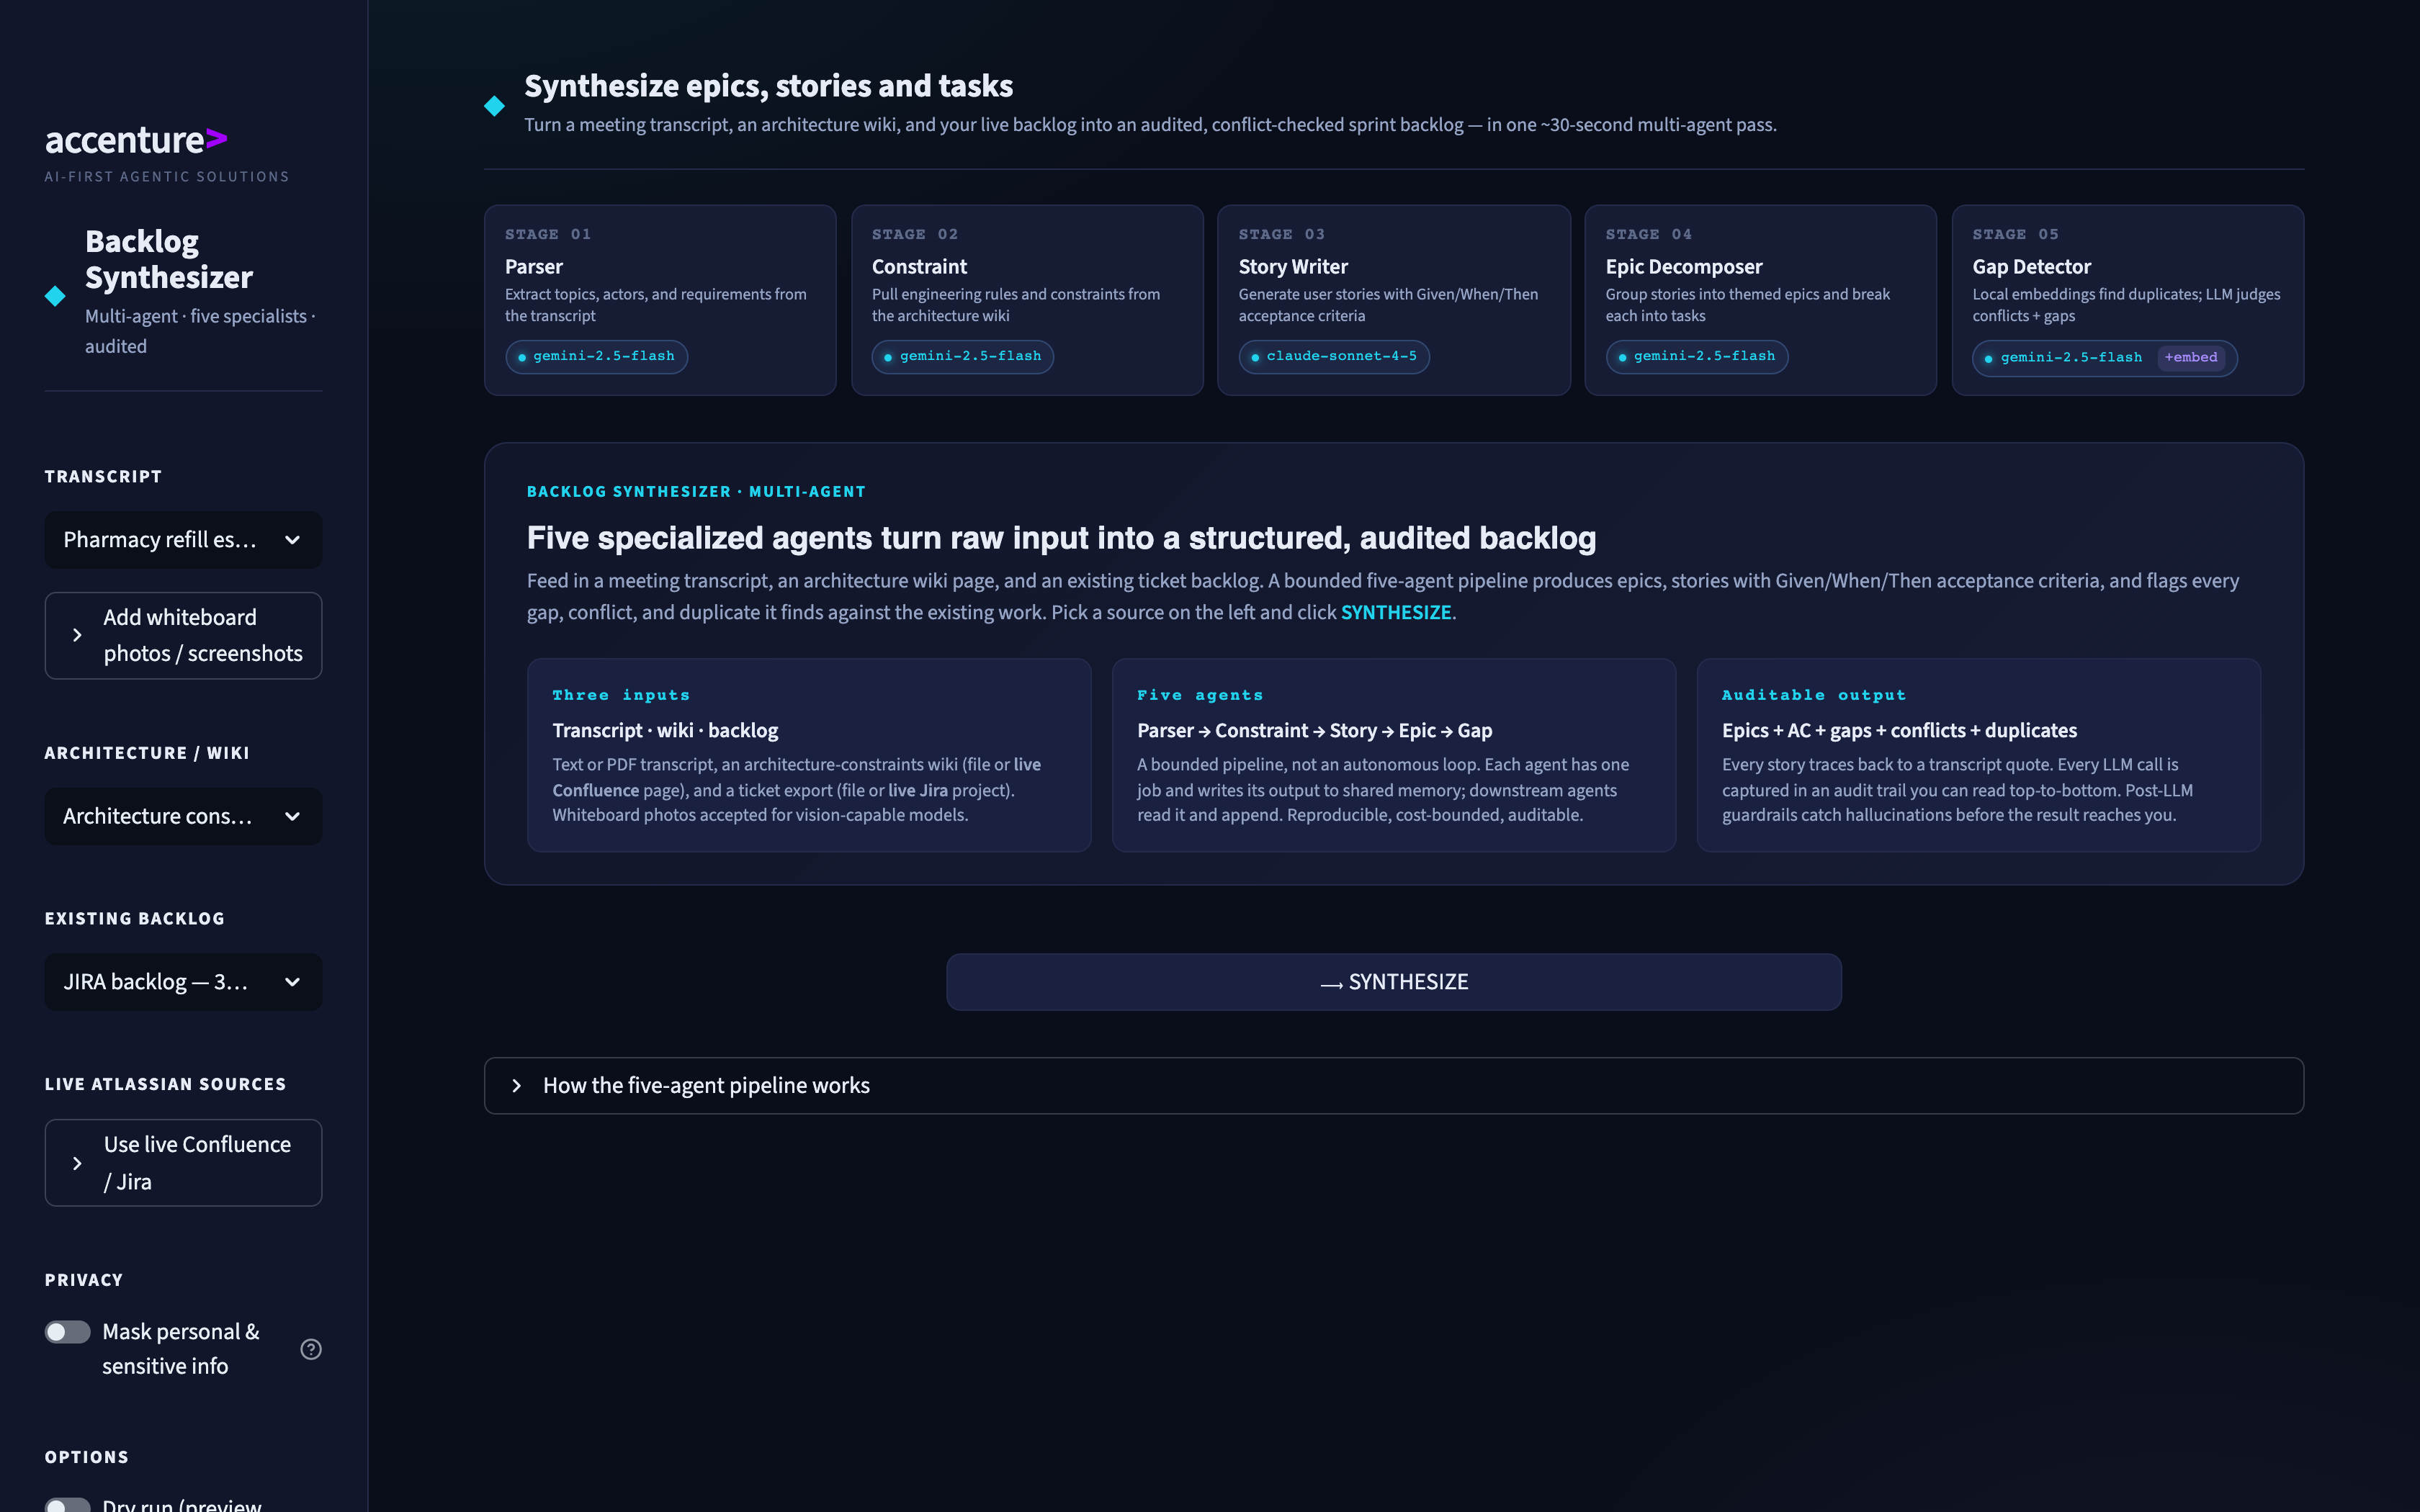
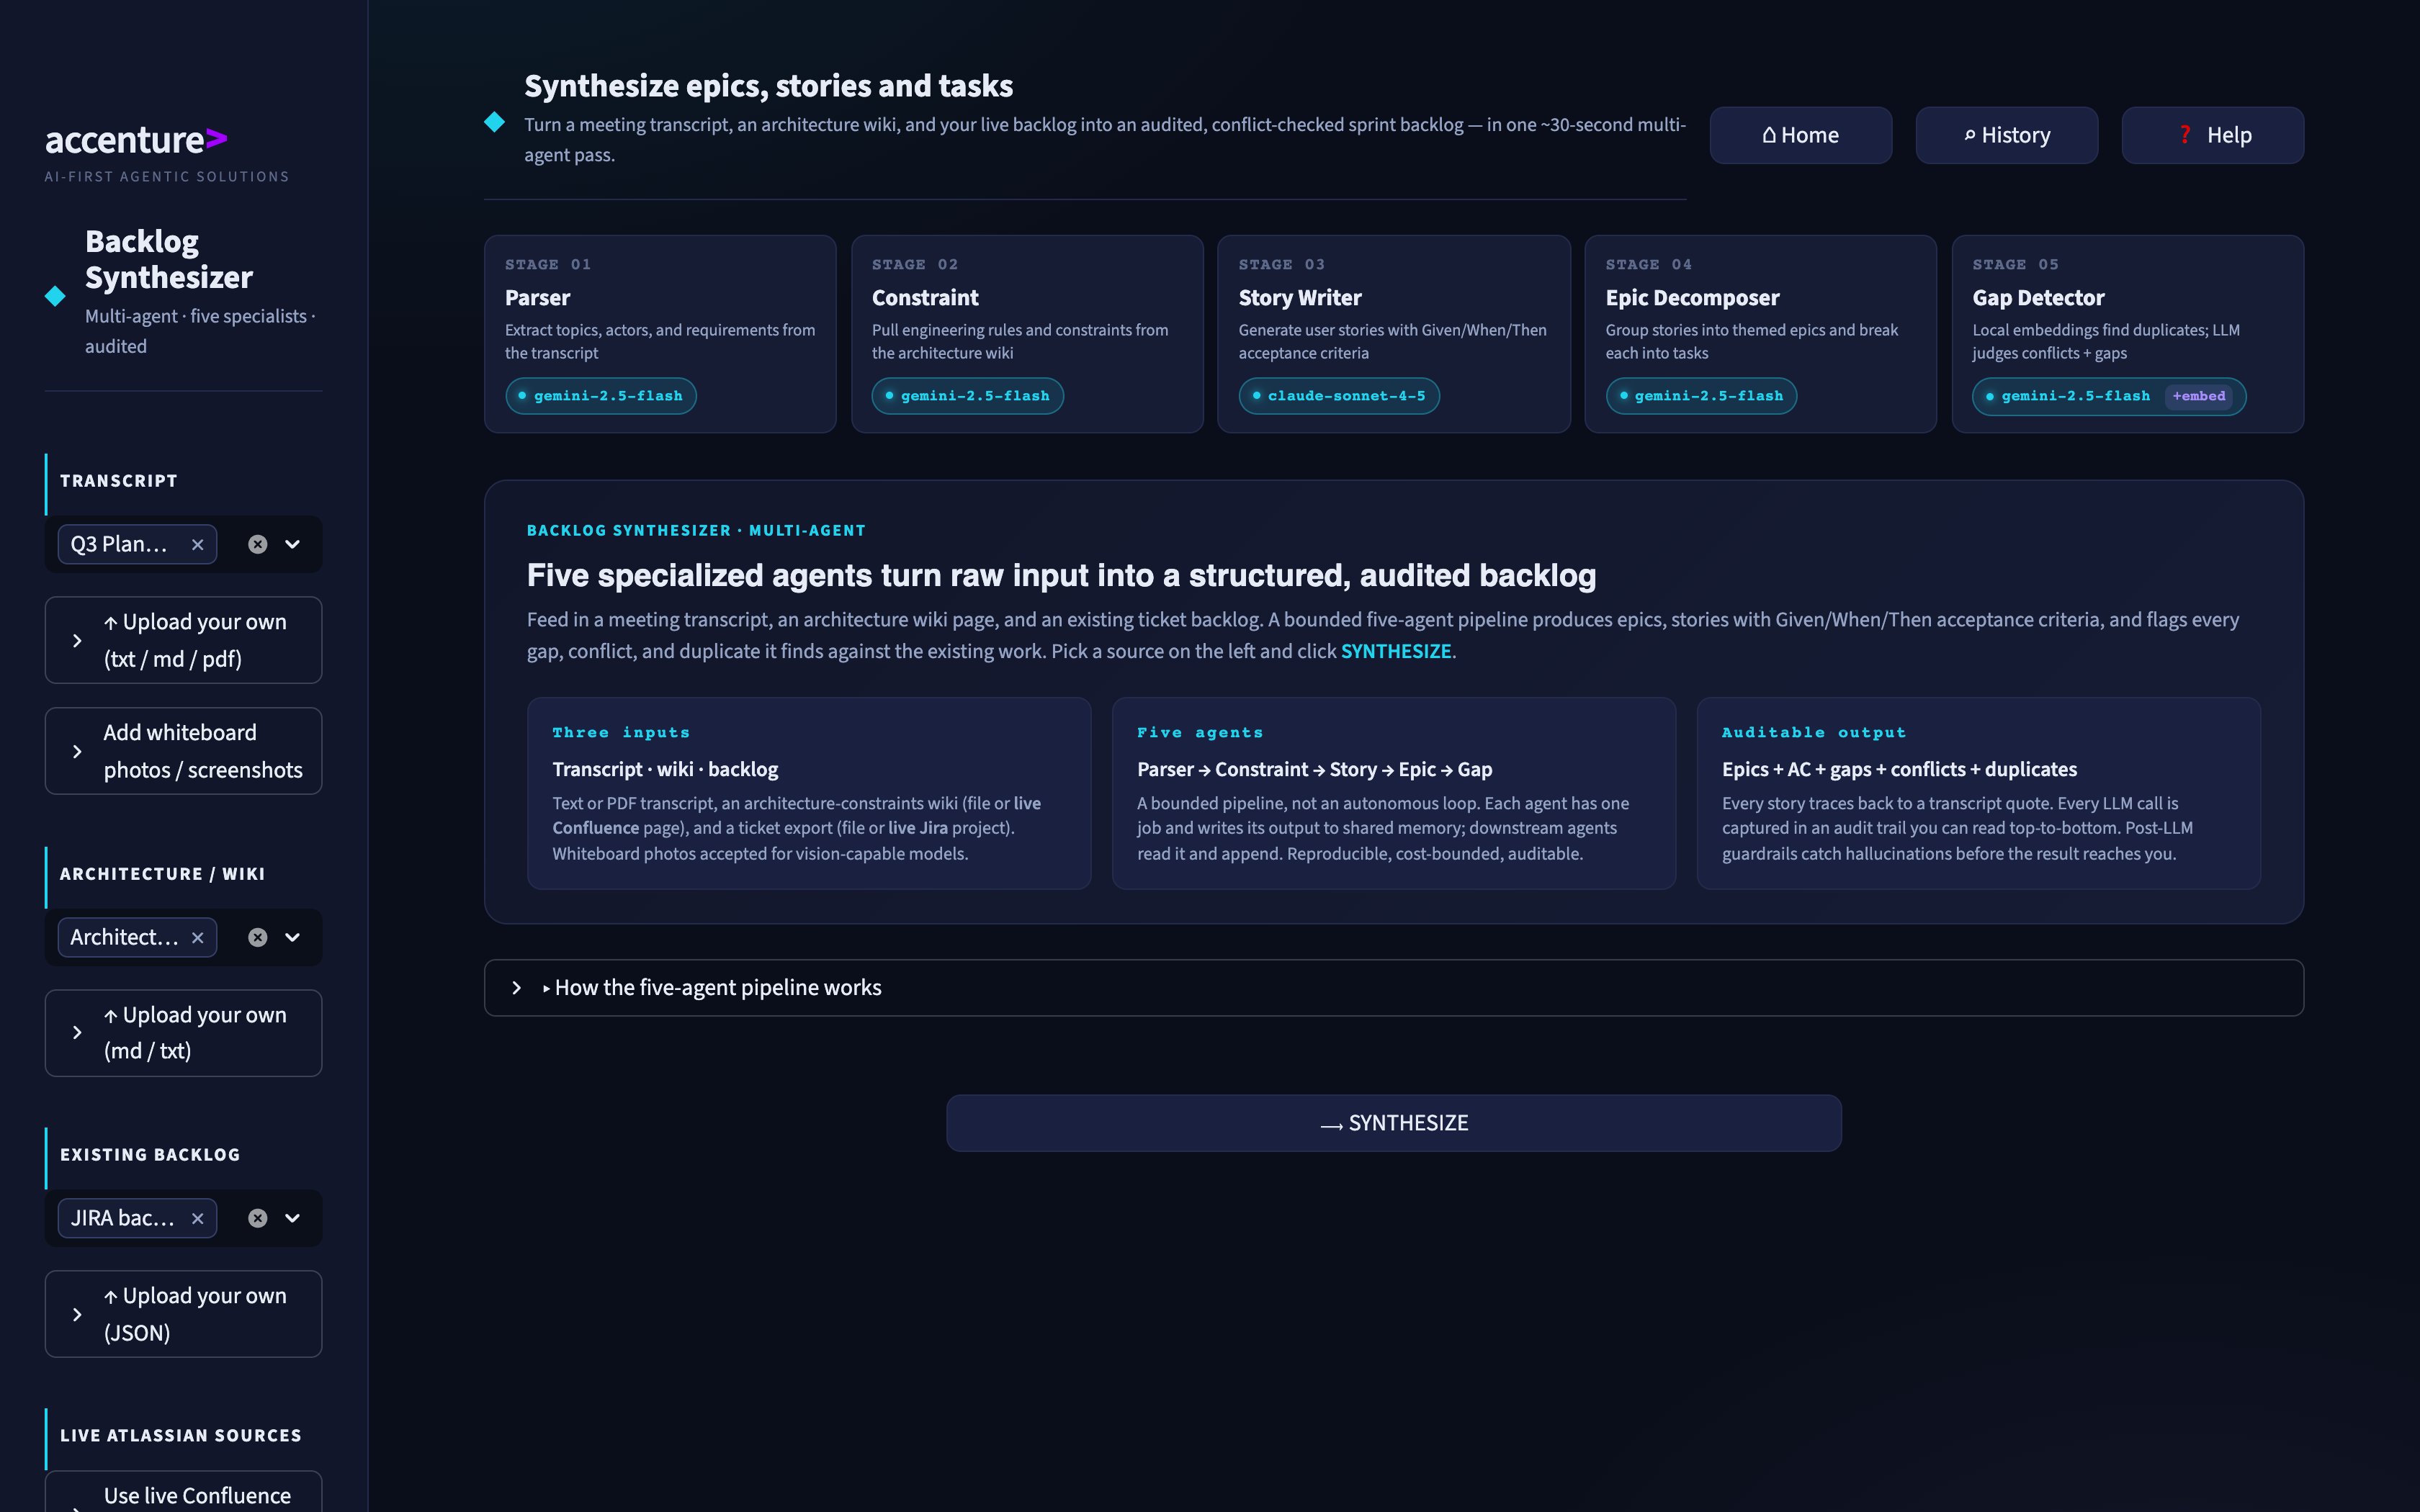
ui: apply 12-point review feedback
Sidebar:
- Cyan accent stripe on every section label (TRANSCRIPT / ARCHITECTURE /
  BACKLOG) for scannability
- Upload expander icon ⤓ → ↑ (correct direction)
- Shorter, readable chip labels (Q3 Planning, Architecture constraints,
  JIRA backlog (30 tickets))
- Compare Providers collapsed into expander to reduce scroll
- Live Atlassian already collapsed; Privacy stays visible

Main canvas:
- Synthesize button larger (1.2rem, 3.4rem height, bolder)
- "How the five-agent pipeline works" expander moved ABOVE the Synthesize
  button (visible without scrolling, acts as explainer before action)
- Cost chip: accent left-border + accent label colour (more prominent)
- Duplicate inline "Create in Jira" section removed (top-nav ⤴ Jira is
  the single entry point)

Nav bar:
- Export / Jira use type="primary" when present; Home/History/Help use
  "secondary" — creates visual hierarchy

Code quality:
- Responsive guard for <900px: pipeline cards stack to 2 columns
- pypdf installed in venv (was missing; PDF uploads would have errored)
- ~$ Word lock file pattern added to .gitignore
- Updated docs/screenshots/01_home.png

diff --git a/app.py b/app.py
@@ -1360,27 +1360,27 @@ SAMPLES_DIR = ROOT / "samples"
 GOLDEN_TRANSCRIPTS_DIR = ROOT / "evaluation" / "golden_dataset" / "transcripts"
 
 TRANSCRIPT_OPTIONS = {
-    "Meeting notes — NorthStar Q3 planning":
+    "Q3 Planning — Meeting notes":
         SAMPLES_DIR / "meeting_notes.txt",
-    "Strategy doc — NorthStar Q3":
+    "Q3 Strategy doc":
         SAMPLES_DIR / "product_strategy.md",
-    "Pharmacy refill escalation (eval case 02)":
+    "Pharmacy refill escalation":
         GOLDEN_TRANSCRIPTS_DIR / "case_02_pharmacy_escalation.txt",
-    "Mobile team Slack standup (eval case 03)":
+    "Mobile Slack standup":
         GOLDEN_TRANSCRIPTS_DIR / "case_03_mobile_standup.txt",
-    "Customer support note (eval case 04 — negative)":
+    "Customer support note (negative)":
         GOLDEN_TRANSCRIPTS_DIR / "case_04_support_note.txt",
 }
 CONSTRAINTS_OPTIONS = {
-    "Architecture constraints (recommended)":
+    "Architecture constraints":
         SAMPLES_DIR / "architecture_constraints.md",
     "Product strategy doc":
         SAMPLES_DIR / "product_strategy.md",
 }
 BACKLOG_OPTIONS = {
-    "JIRA backlog — 30 tickets (recommended)":
+    "JIRA backlog (30 tickets)":
         SAMPLES_DIR / "jira_backlog.json",
-    "GitHub issues — 6 tickets":
+    "GitHub issues (6 tickets)":
         SAMPLES_DIR / "github_issues.json",
 }
 
@@ -1416,7 +1416,7 @@ with st.sidebar:
         key="transcript_choice",
         help="Pick one or more bundled transcripts / docs — combined into a single source for the Parser. You can also drop your own files below; samples + uploads are merged.",
     )
-    with st.expander("⤓  Upload your own (txt / md / pdf)", expanded=False):
+    with st.expander("↑  Upload your own (txt / md / pdf)", expanded=False):
         transcript_upload = st.file_uploader(
             "transcript upload", type=["txt", "md", "pdf"],
             accept_multiple_files=True,
@@ -1457,7 +1457,7 @@ with st.sidebar:
         key="constraints_choice",
         help="Pick one or more bundled wiki / architecture pages (combined), or leave empty to skip the Constraint Extractor. You can also drop your own files below.",
     )
-    with st.expander("⤓  Upload your own (md / txt)", expanded=False):
+    with st.expander("↑  Upload your own (md / txt)", expanded=False):
         constraints_upload = st.file_uploader(
             "constraints upload", type=["md", "txt"],
             accept_multiple_files=True,
@@ -1474,7 +1474,7 @@ with st.sidebar:
         key="backlog_choice",
         help="Pick one or more bundled JIRA / GitHub exports — all tickets merged for duplicate detection. Leave empty to skip. You can also drop your own files below.",
     )
-    with st.expander("⤓  Upload your own (JSON)", expanded=False):
+    with st.expander("↑  Upload your own (JSON)", expanded=False):
         backlog_upload = st.file_uploader(
             "backlog upload", type=["json"],
             accept_multiple_files=True,
@@ -1659,25 +1659,25 @@ with st.sidebar:
     # with a secondary preset chosen here — and show a side-by-side
     # summary in the results. Useful for evaluating whether the cheaper
     # Free preset is producing similar output to the Premium preset.
-    st.markdown("### Compare providers")
-    compare_enabled = st.toggle(
-        "Run a second pass with a different preset",
-        value=False,
-        key="compare_enabled",
-        help=(
-            "Runs the pipeline twice (sequentially). Doubles wall time and "
-            "API spend; surfaces a side-by-side metrics summary so you can "
-            "see which preset produced more / better output."
-        ),
-    )
-    compare_with_preset = "free"
-    if compare_enabled:
-        compare_with_preset = st.selectbox(
-            "Compare against preset",
-            options=list(MODEL_PRESETS.keys()),
-            index=list(MODEL_PRESETS.keys()).index("free"),
-            key="compare_with_preset",
+    with st.expander("⚖  Compare providers", expanded=False):
+        compare_enabled = st.toggle(
+            "Run a second pass with a different preset",
+            value=False,
+            key="compare_enabled",
+            help=(
+                "Runs the pipeline twice (sequentially). Doubles wall time and "
+                "API spend; surfaces a side-by-side metrics summary so you can "
+                "see which preset produced more / better output."
+            ),
         )
+        compare_with_preset = "free"
+        if compare_enabled:
+            compare_with_preset = st.selectbox(
+                "Compare against preset",
+                options=list(MODEL_PRESETS.keys()),
+                index=list(MODEL_PRESETS.keys()).index("free"),
+                key="compare_with_preset",
+            )
 
     _vision_present = bool(vision_samples) or bool(vision_uploads)
     _transcript_ready = (
@@ -1711,10 +1711,10 @@ with st.sidebar:
         )
         st.markdown(
             "<div style='padding:0.55rem 0.8rem;background:var(--bg-elev-1);"
-            "border:1px solid var(--border);border-radius:8px;font-size:0.8rem;"
-            "margin-bottom:0.55rem;'>"
-            "<span style='font-size:0.62rem;font-weight:700;letter-spacing:0.12em;"
-            "text-transform:uppercase;color:var(--text-faint);display:block;"
+            "border:1px solid var(--border);border-left:3px solid var(--accent);"
+            "border-radius:8px;font-size:0.82rem;margin-bottom:0.6rem;'>"
+            "<span style='font-size:0.65rem;font-weight:700;letter-spacing:0.12em;"
+            "text-transform:uppercase;color:var(--accent);display:block;"
             "margin-bottom:0.25rem;'>Estimated run cost</span>"
             f"{cost_line}</div>",
             unsafe_allow_html=True,
@@ -1849,9 +1849,14 @@ with _hdr_right:
         _navs += [("export", "↓ Export"), ("jira", "⤴ Jira")]
     _nav_cols = st.columns(len(_navs))
     _nav_clicked: dict[str, bool] = {}
+    _primary_nav = {"jira", "export"}
     for _col, (_key, _label) in zip(_nav_cols, _navs):
         with _col:
-            _nav_clicked[_key] = st.button(_label, key=f"nav_{_key}", use_container_width=True)
+            _nav_clicked[_key] = st.button(
+                _label, key=f"nav_{_key}",
+                use_container_width=True,
+                type="primary" if _key in _primary_nav else "secondary",
+            )
 
 if _nav_clicked.get("home"):
     for _k in ("result", "run_dir", "dry_run_result", "jira_publish_result"):
@@ -2415,6 +2420,24 @@ elif result is None:
     # Primary action on the main canvas — large, centered, mirrors the
     # sidebar's Synthesize button. Sets `main_run_clicked` and reruns;
     # the run handler at the top of the script picks either source.
+    with st.expander("▸  How the five-agent pipeline works", expanded=False):
+        st.markdown(
+            "**Parser** reads the transcript and extracts distinct topics.\n\n"
+            "**Constraint Extractor** reads the wiki for architecture rules.\n\n"
+            "**Story Writer** drafts user stories with Given/When/Then "
+            "acceptance criteria for each topic, respecting constraints.\n\n"
+            "**Epic Decomposer** groups stories into epics and breaks each "
+            "story into 3-7 concrete tasks.\n\n"
+            "**Gap Detector** compares new stories against the existing "
+            "backlog and constraints to find duplicates, conflicts, and gaps.\n\n"
+            "Every agent decision is captured in `audit_trail.md` — a "
+            "chronological trace a reviewer can read top-to-bottom."
+        )
+
+    # Primary action on the main canvas — large, centered, mirrors the
+    # sidebar's Synthesize button. Placed below the explainer so it's
+    # the last thing the eye lands on before clicking.
+    st.markdown("<div style='height:0.8rem'/>", unsafe_allow_html=True)
     _, _main_cta_col, _ = st.columns([1, 2, 1])
     with _main_cta_col:
         st.markdown('<div class="main-cta-wrap">', unsafe_allow_html=True)
@@ -2431,19 +2454,6 @@ elif result is None:
         st.session_state["_pending_run"] = True
         st.rerun()
 
-    with st.expander("How the five-agent pipeline works", expanded=False):
-        st.markdown(
-            "**Parser** reads the transcript and extracts distinct topics.\n\n"
-            "**Constraint Extractor** reads the wiki for architecture rules.\n\n"
-            "**Story Writer** drafts user stories with Given/When/Then "
-            "acceptance criteria for each topic, respecting constraints.\n\n"
-            "**Epic Decomposer** groups stories into epics and breaks each "
-            "story into 3-7 concrete tasks.\n\n"
-            "**Gap Detector** compares new stories against the existing "
-            "backlog and constraints to find duplicates, conflicts, and gaps.\n\n"
-            "Every agent decision is captured in `audit_trail.md` — a "
-            "chronological trace a reviewer can read top-to-bottom."
-        )
 else:
     # ---- Run-meta strip ----
     elapsed = st.session_state.elapsed or 0
@@ -2759,61 +2769,5 @@ else:
         except ValueError:
             pass
 
-    # ---- Create in Jira (live write-back) — closes the loop end-to-end ----
-    st.markdown("### Create in Jira")
-    _jira_ready = bool(
-        os.environ.get("JIRA_BASE_URL") and os.environ.get("JIRA_EMAIL")
-        and os.environ.get("JIRA_API_TOKEN") and os.environ.get("JIRA_PROJECT_KEY")
-    )
-    if not _jira_ready:
-        st.caption(
-            "Set `JIRA_BASE_URL` / `JIRA_EMAIL` / `JIRA_API_TOKEN` / `JIRA_PROJECT_KEY` in "
-            "`.env` to push this synthesis into a live Jira project as Epic → Story → Sub-task."
-        )
-    else:
-        _proj = os.environ.get("JIRA_PROJECT_KEY")
-        _c1, _c2 = st.columns([1, 1])
-        with _c1:
-            _subtasks = st.checkbox("Also create sub-tasks", value=True, key="jira_subtasks")
-        with _c2:
-            _go = st.button(
-                f"⤴  Create in Jira ({_proj})",
-                type="primary", use_container_width=True, key="jira_publish_btn",
-            )
-        st.caption(
-            "Writes real issues to your live Jira project — Epics → Stories → Sub-tasks, with "
-            "acceptance criteria, priority, and conflict flags in each description."
-        )
-        if _go:
-            with st.spinner(f"Creating issues in {_proj}…"):
-                try:
-                    from tools.jira_tool import JiraTool
-                    st.session_state["jira_publish_result"] = JiraTool(mode="live").publish_synthesis(
-                        result, create_subtasks=_subtasks,
-                    )
-                except Exception as e:  # noqa: BLE001 — surface, never crash the page
-                    st.session_state["jira_publish_result"] = {"error": str(e)}
-
-        _pub = st.session_state.get("jira_publish_result")
-        if _pub:
-            if _pub.get("error"):
-                st.error(f"Jira publish failed: {_pub['error']}")
-            else:
-                _cnt = _pub["counts"]
-                st.success(
-                    f"Created {_cnt['epics']} epic(s), {_cnt['stories']} story(ies), "
-                    f"{_cnt['subtasks']} sub-task(s) in project {_pub['project']}."
-                )
-                _links = []
-                for _it in _pub["created"]:
-                    if _it["level"] in ("epic", "story"):
-                        _pad = "" if _it["level"] == "epic" else "&nbsp;&nbsp;&nbsp;&nbsp;↳ "
-                        _links.append(
-                            f'{_pad}<a href="{_it["url"]}" target="_blank">{_it["key"]}</a> — {_it["summary"]}'
-                        )
-                if _links:
-                    st.markdown("<br>".join(_links), unsafe_allow_html=True)
-                if _pub.get("errors"):
-                    with st.expander(f"{len(_pub['errors'])} item(s) needed a fallback / were skipped"):
-                        for _e in _pub["errors"]:
-                            st.write("• " + _e)
+    # Jira write-back is available via the "⤴ Jira" top-nav button.
+    # No duplicate inline section — keeps the Downloads area clean.

diff --git a/src/ui/styling.py b/src/ui/styling.py
@@ -133,7 +133,9 @@ section[data-testid="stSidebar"] .stMarkdown h3 {
     font-weight: 700;
     letter-spacing: 0.1em;
     text-transform: uppercase;
-    margin-top: 1rem;
+    margin-top: 1.2rem;
+    padding-left: 0.55rem;
+    border-left: 2px solid var(--accent);
 }
 """
 
@@ -200,6 +202,12 @@ _HEADER_CSS = """
 .log-failed .log-icon    { color: var(--rose); }
 .log-failed strong       { color: var(--rose); }
 .log-skipped .log-icon   { color: var(--amber); }
+
+/* Responsive guard — the 5-column pipeline grid doesn't fit narrower
+   viewports. Stack the cards vertically below 900px. */
+@media (max-width: 900px) {
+    .pipeline { grid-template-columns: 1fr 1fr; }
+}
 .log-failover            { color: var(--amber); }
 .log-failover .log-icon  { color: var(--amber); }
 .log-failover strong     { color: var(--amber); }
@@ -365,27 +373,28 @@ _PIPELINE_CSS = """
     margin-bottom: 0.25rem;
 }
 .stage-name {
-    font-size: 0.92rem; font-weight: 600; color: var(--text);
+    font-size: 1rem; font-weight: 700; color: var(--text);
     line-height: 1.25;
 }
 .stage-sub {
-    font-size: 0.7rem; color: var(--text-muted); margin-top: 0.2rem;
-    line-height: 1.35;
+    font-size: 0.72rem; color: var(--text-muted); margin-top: 0.25rem;
+    line-height: 1.4;
 }
 .stage-model {
     display: inline-flex;
     align-items: center;
     gap: 0.35rem;
     margin-top: 0.55rem;
-    padding: 0.2rem 0.5rem;
-    background: rgba(110, 168, 254, 0.08);
-    border: 1px solid rgba(110, 168, 254, 0.25);
+    padding: 0.22rem 0.55rem;
+    background: rgba(34, 211, 238, 0.12);
+    border: 1px solid rgba(34, 211, 238, 0.35);
     border-radius: 999px;
     font-family: 'IBM Plex Mono', monospace;
-    font-size: 0.62rem;
+    font-size: 0.65rem;
     color: var(--accent);
     letter-spacing: 0.02em;
     width: fit-content;
+    font-weight: 600;
 }
 .stage-model-dot {
     width: 5px; height: 5px;
@@ -606,13 +615,14 @@ _EMPTY_CSS = """
     background: linear-gradient(135deg, var(--accent) 0%, #4f8fff 100%) !important;
     color: #0a0e1a !important;
     border: 1px solid var(--accent) !important;
-    font-weight: 700 !important;
-    font-size: 1.05rem !important;
-    letter-spacing: 0.06em !important;
-    padding: 1rem 2rem !important;
-    border-radius: 12px !important;
-    box-shadow: 0 8px 30px var(--accent-glow), 0 0 0 1px var(--accent) !important;
+    font-weight: 800 !important;
+    font-size: 1.2rem !important;
+    letter-spacing: 0.08em !important;
+    padding: 1.2rem 2rem !important;
+    border-radius: 14px !important;
+    box-shadow: 0 8px 32px var(--accent-glow), 0 0 0 1px var(--accent) !important;
     transition: all 0.18s ease !important;
+    min-height: 3.4rem !important;
 }
 .main-cta-wrap .stButton button:hover:not(:disabled) {
     transform: translateY(-1px) !important;